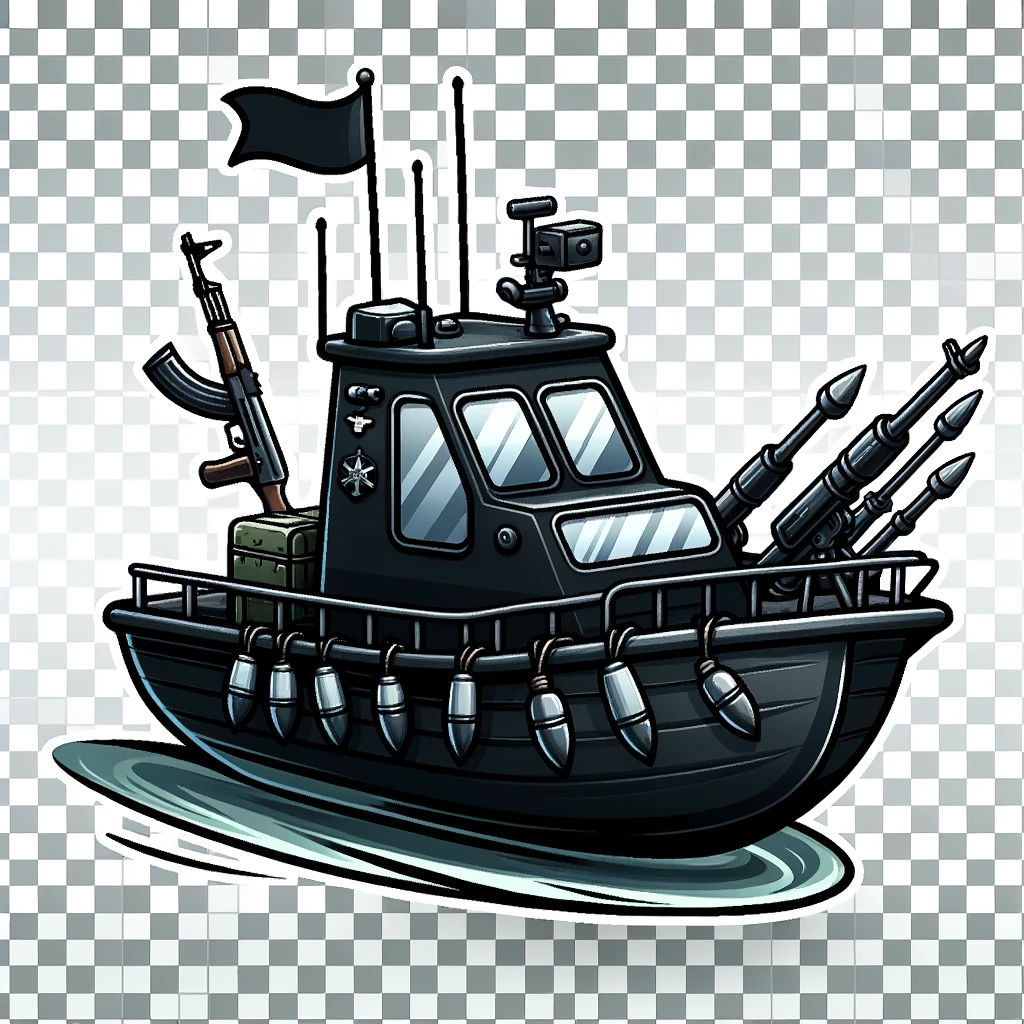
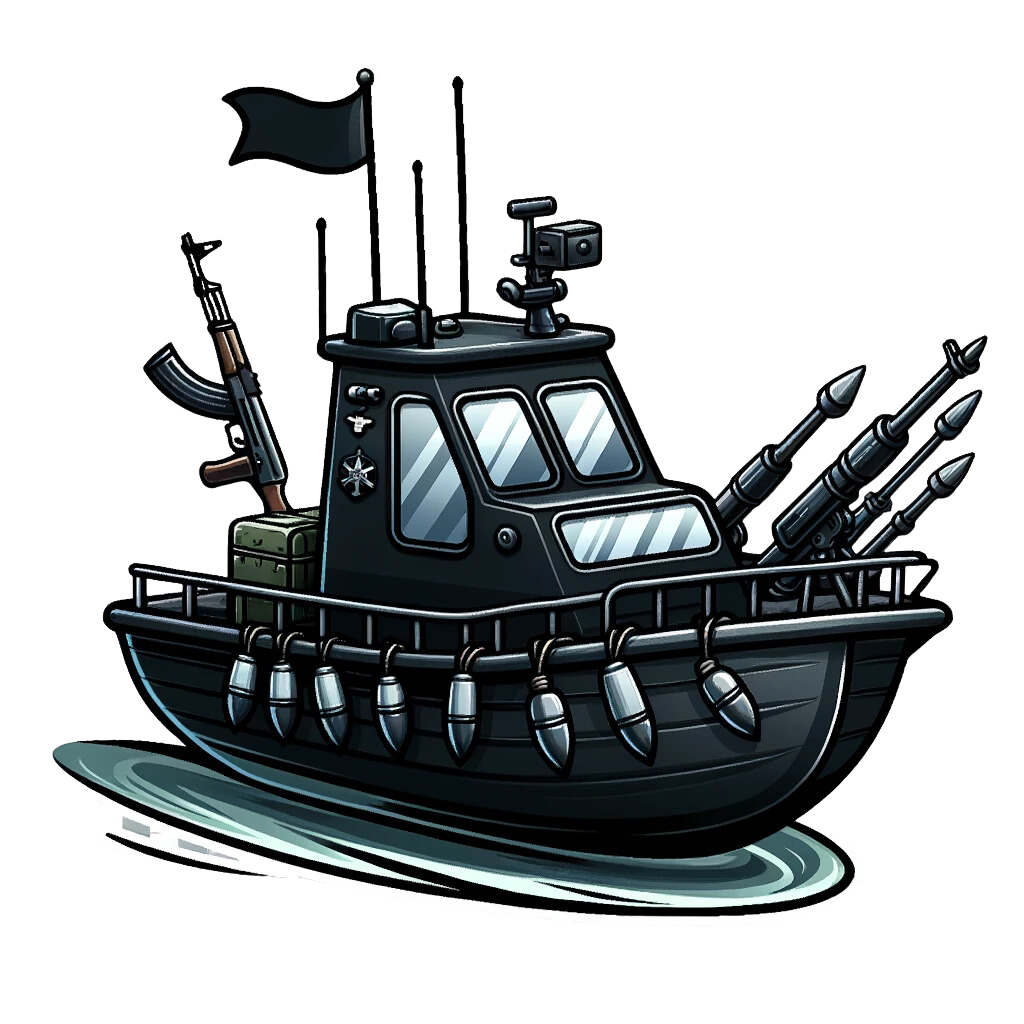
Added Transparent pieces and made board larger.

diff --git a/game.html b/game.html
@@ -17,7 +17,7 @@
         crossorigin="anonymous"></script>
   </head>
   <body>Welcome to POWER PLAY!  Now you're playing with Power!
-    <div id="board2" style="width: 400px"></div>
+    <div id="board2" style="width: 800px"></div>
     <button id="startBtn">Start Position</button>
     <button id="clearBtn">Clear Board</button>
     <button id="changeBtn">Change Color</button>
